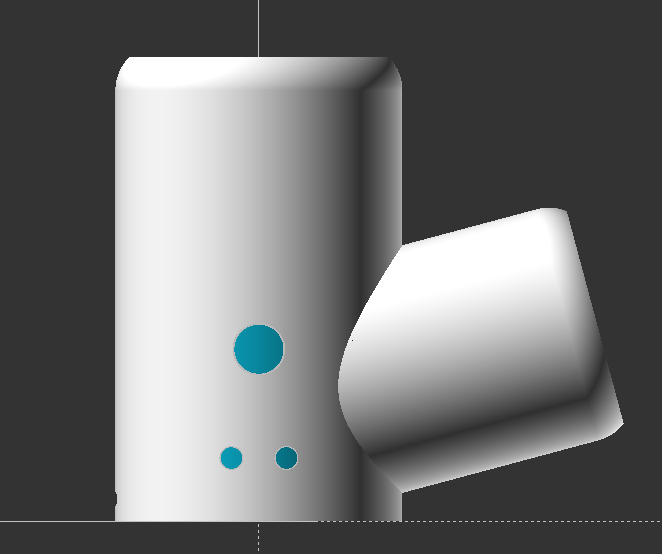
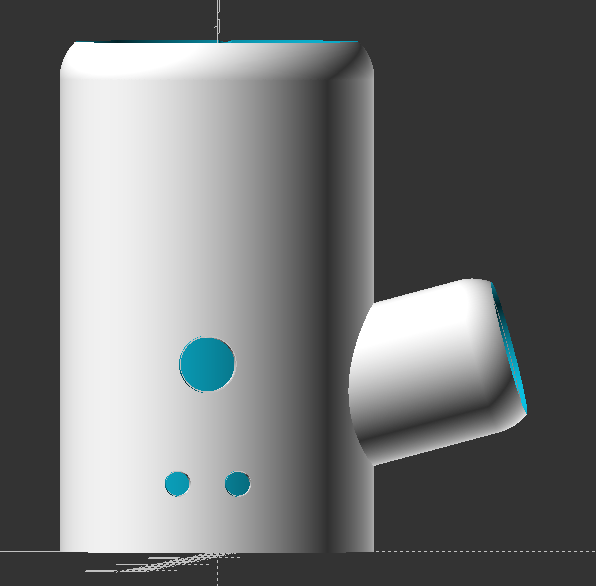
Change Stem, update pictures

diff --git a/README.md b/README.md
@@ -30,5 +30,6 @@ You will find these files in the [Completed Files](Completed_Files) directory.
 ![Pipemod3](img/Pipemod3.png)
 ![Pipemod4](img/Pipemod4.png)
 ![Pipemod5](img/Pipemod5.png)
+![Pipemod6](img/Pipemod6.png)
 =======
 A 3D Printed Pipe Mod for the DNA60 Chipset from [Evolv](https://evolvapor.com)
